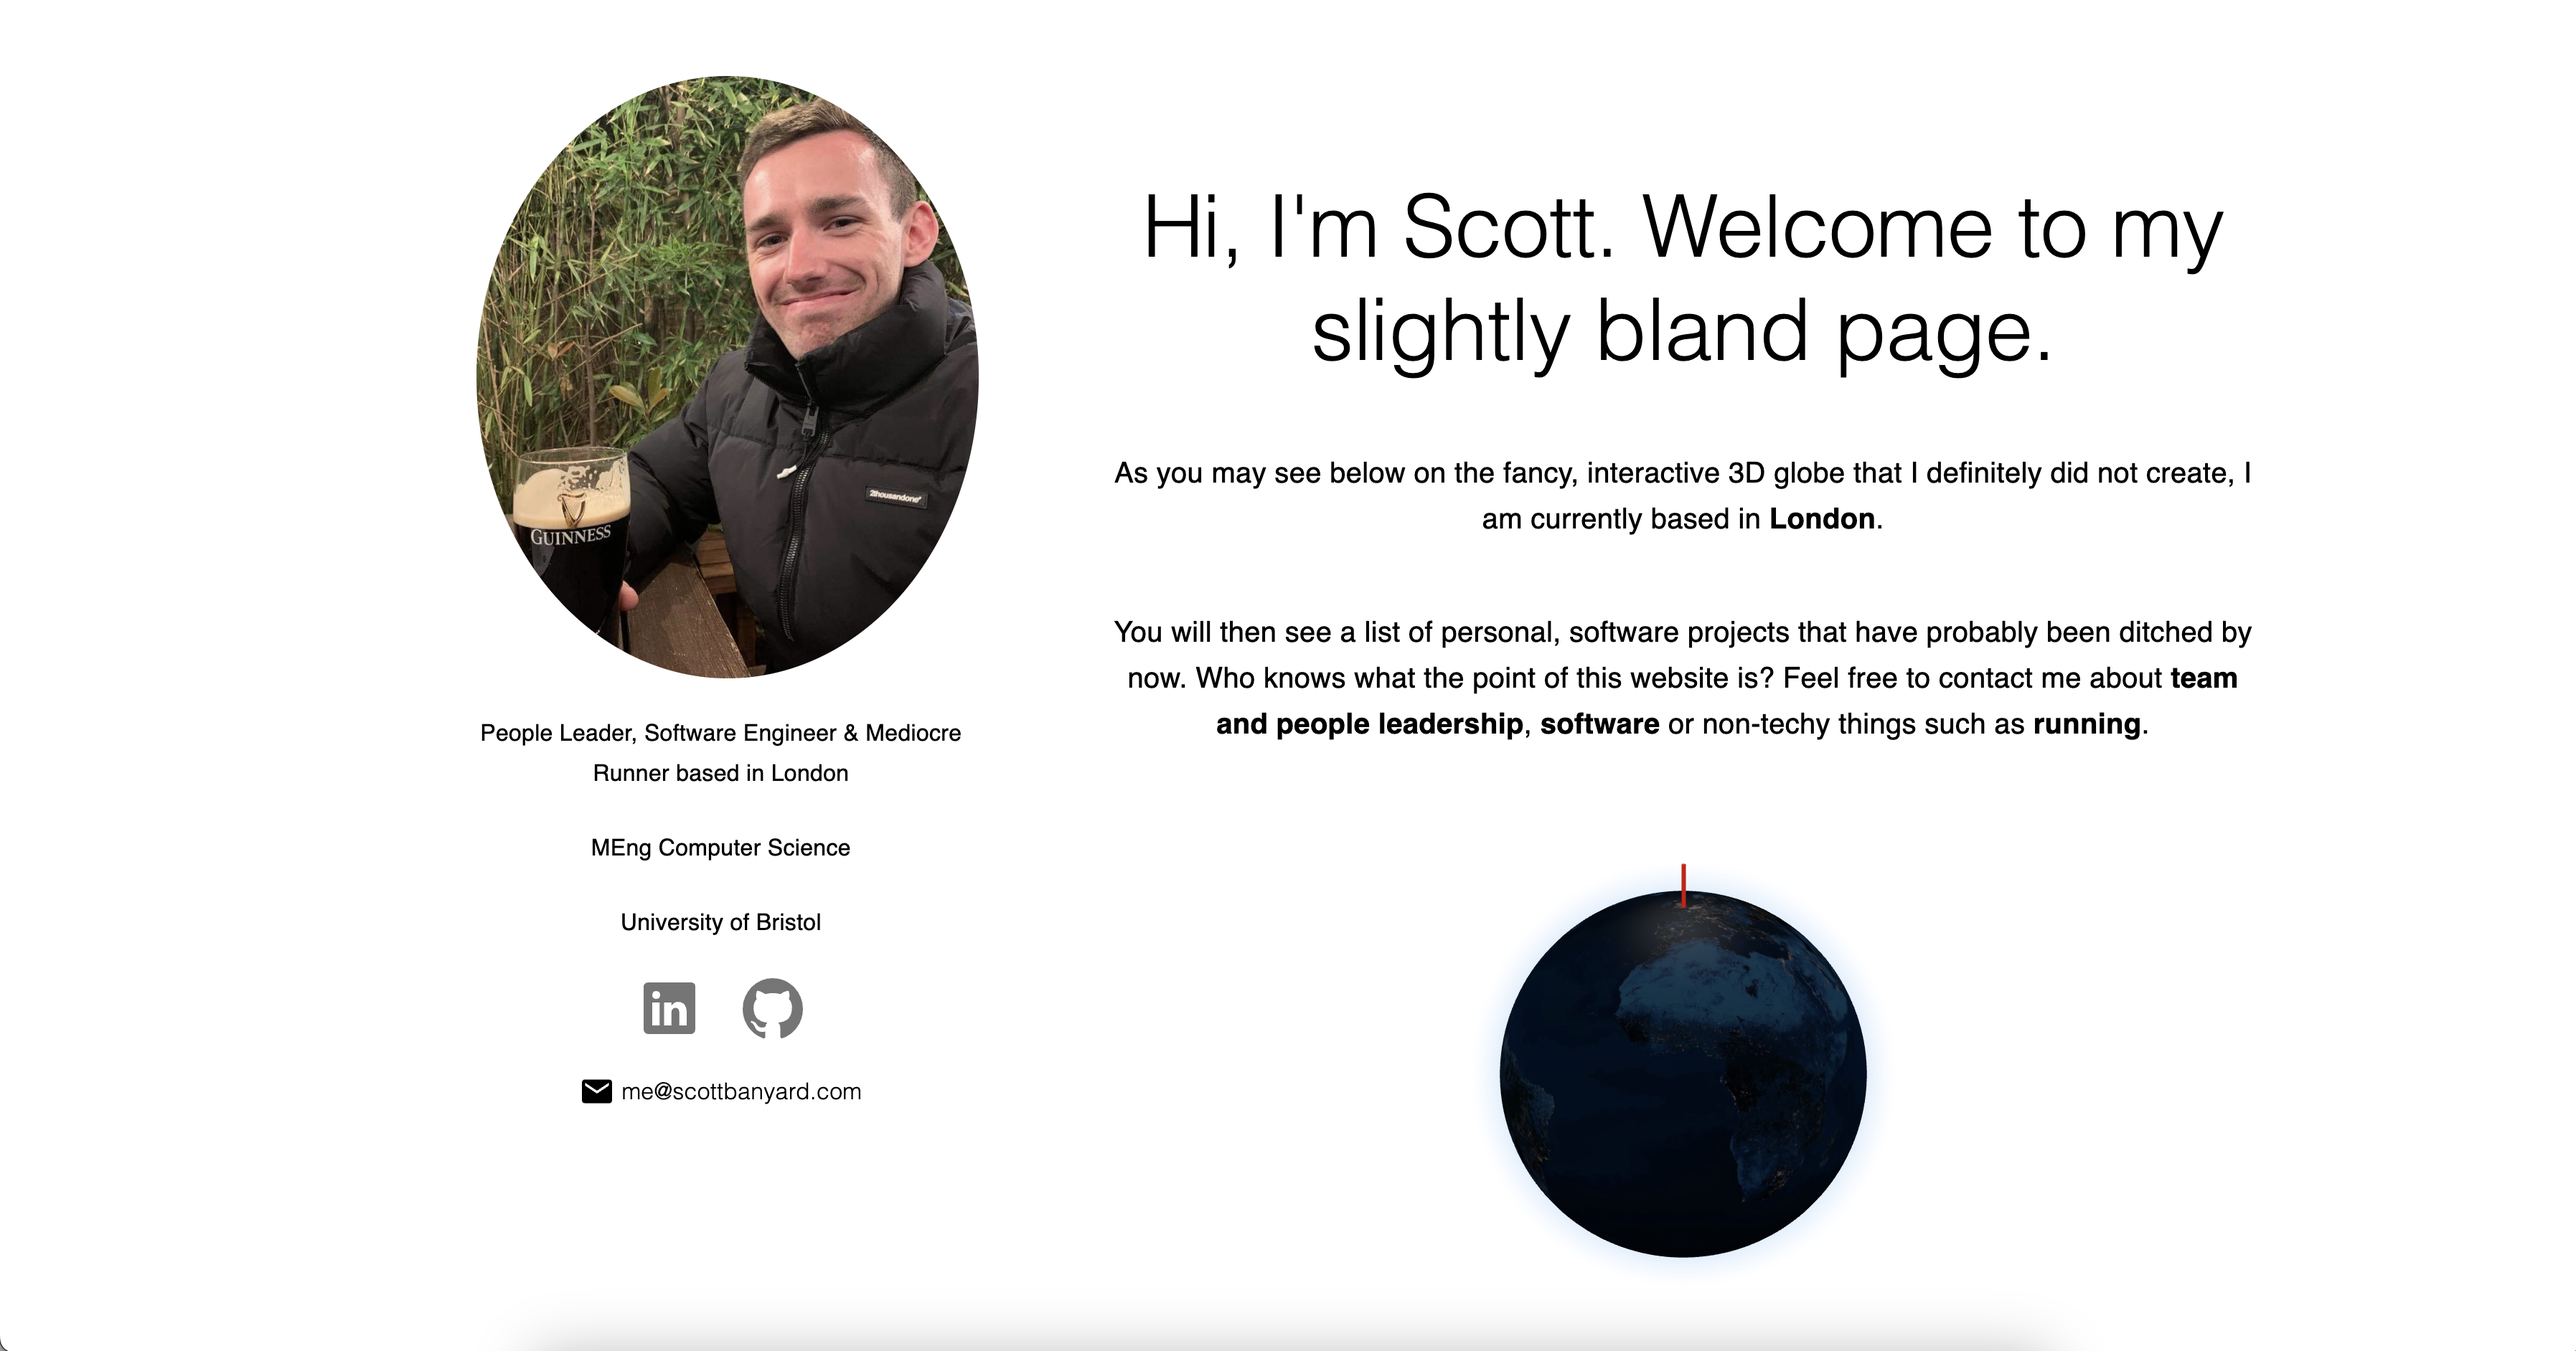
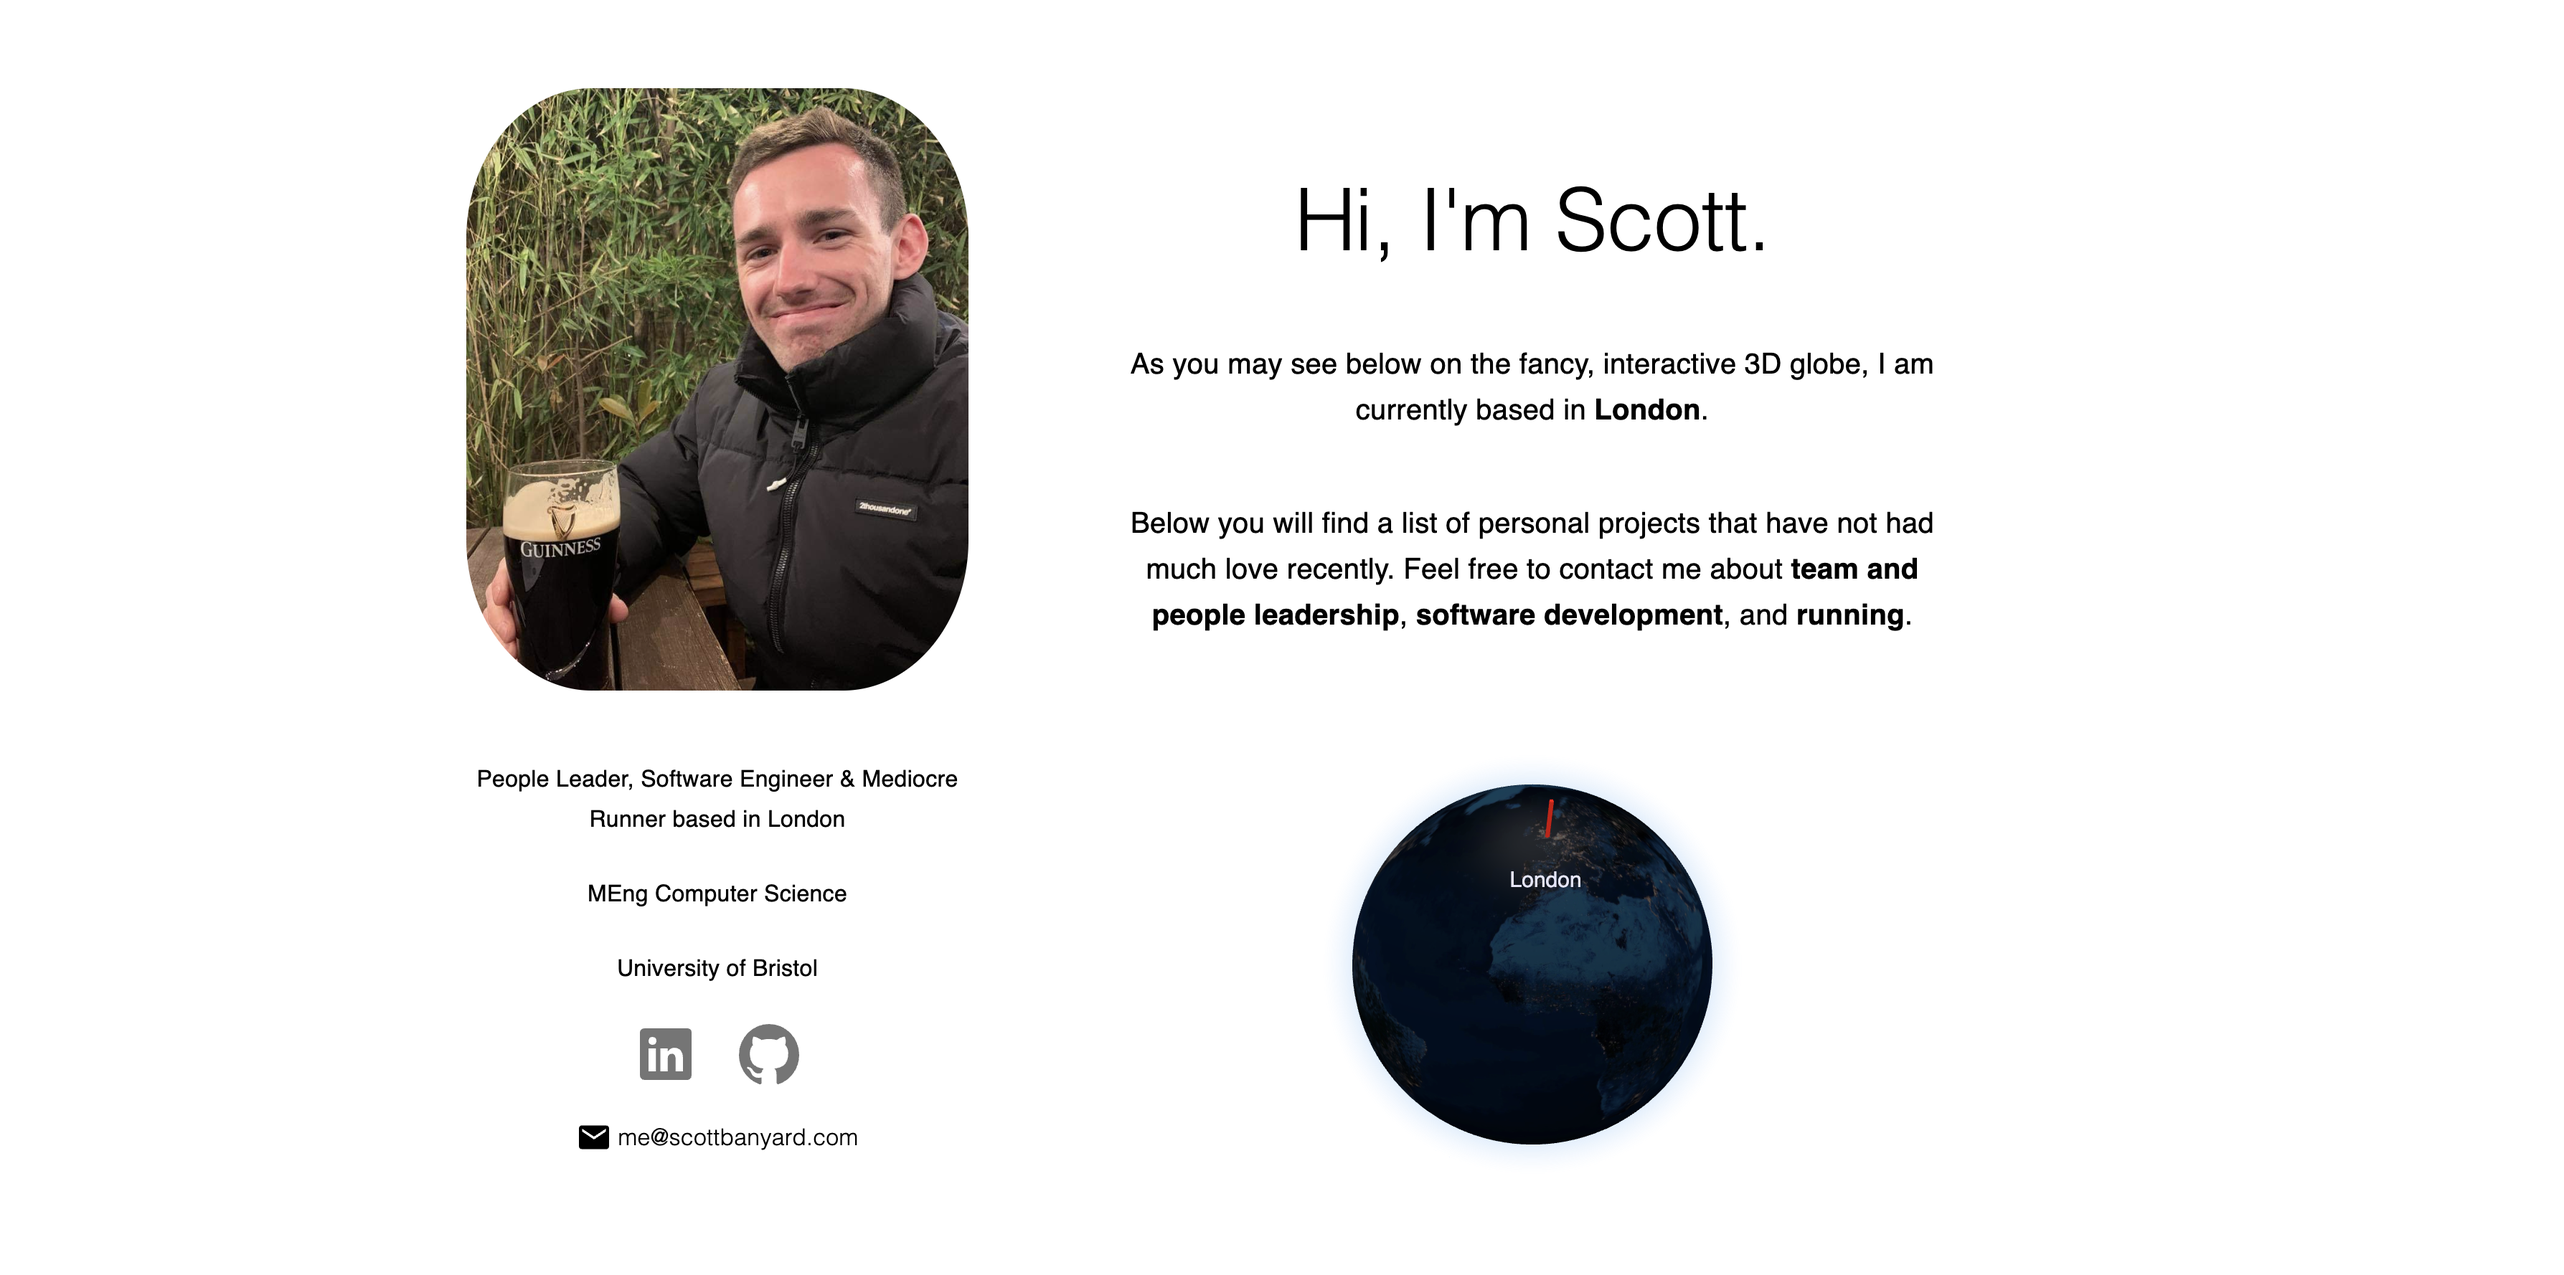
feat: update copy

diff --git a/src/components/Introduction/index.tsx b/src/components/Introduction/index.tsx
@@ -4,19 +4,16 @@ import { StyledDiv, StyledTitle, StyledParagraph } from './styles';
 export const Introduction = () => {
   return (
     <StyledDiv>
-      <StyledTitle variant="h2">
-        Hi, I'm Scott. Welcome to my slightly bland page.
-      </StyledTitle>
+      <StyledTitle variant="h2">Hi, I'm Scott.</StyledTitle>
       <StyledParagraph variant="h6">
-        As you may see below on the fancy, interactive 3D globe that I
-        definitely did not create, I am currently based in{' '}
-        <strong>London</strong>.
+        As you may see below on the fancy, interactive 3D globe, I am currently
+        based in <strong>London</strong>.
       </StyledParagraph>
       <StyledParagraph variant="h6">
-        You will see a list of personal projects below that have probably been
-        abandoned by now. Feel free to contact me about{' '}
+        Below you will find a list of personal projects that have not had much
+        love recently. Reach out to me if you'd like to talk about{' '}
         <strong>team and people leadership</strong>,{' '}
-        <strong>software development</strong>, and <strong>running</strong>.
+        <strong>software engineering</strong>, and <strong>running</strong>.
       </StyledParagraph>
     </StyledDiv>
   );
